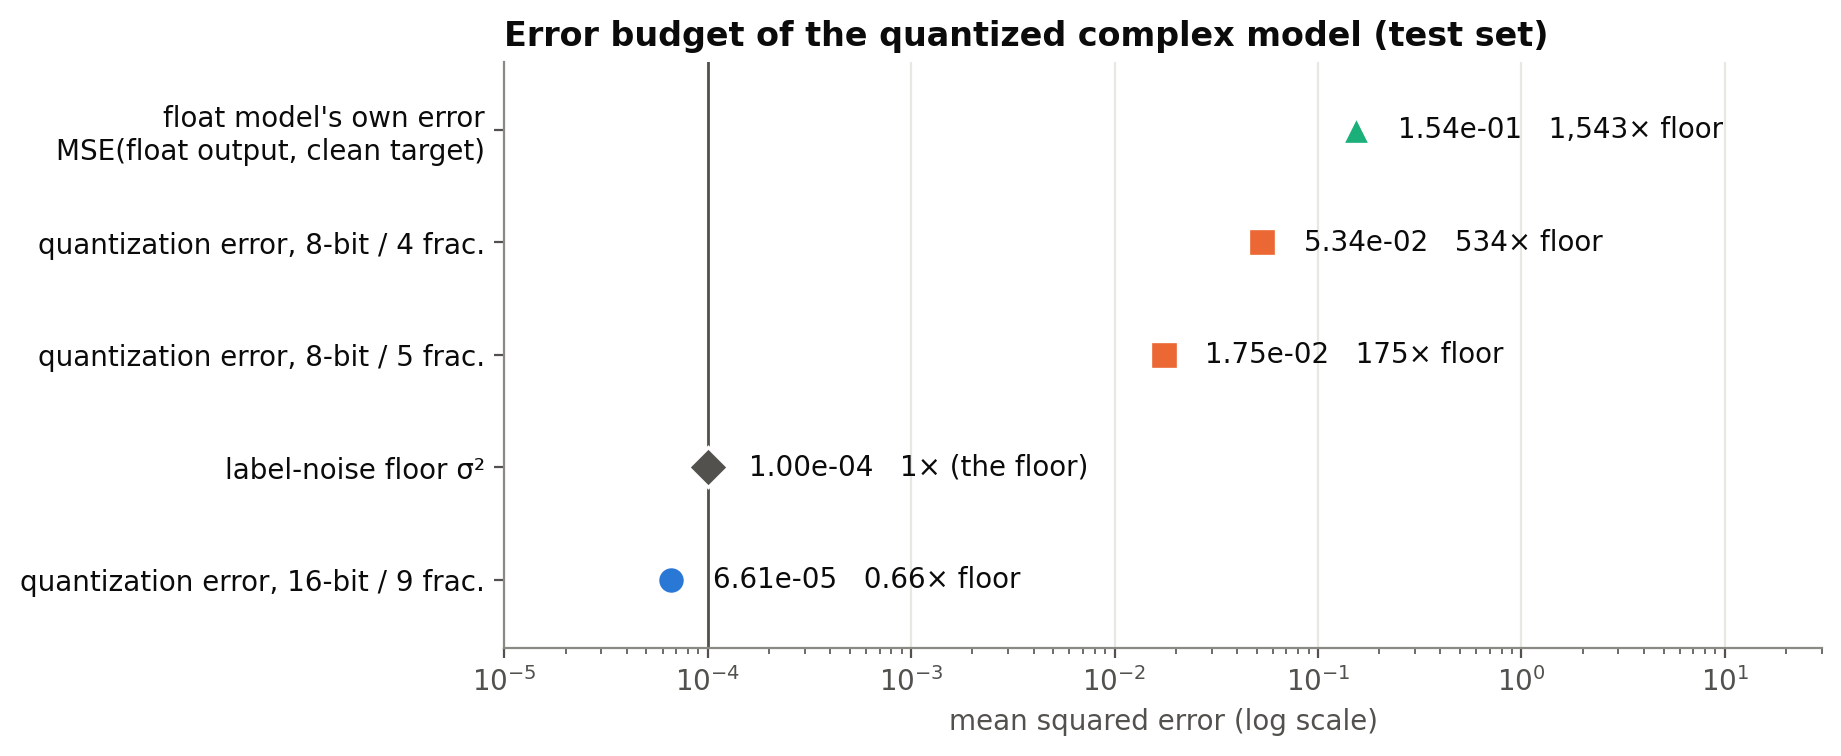
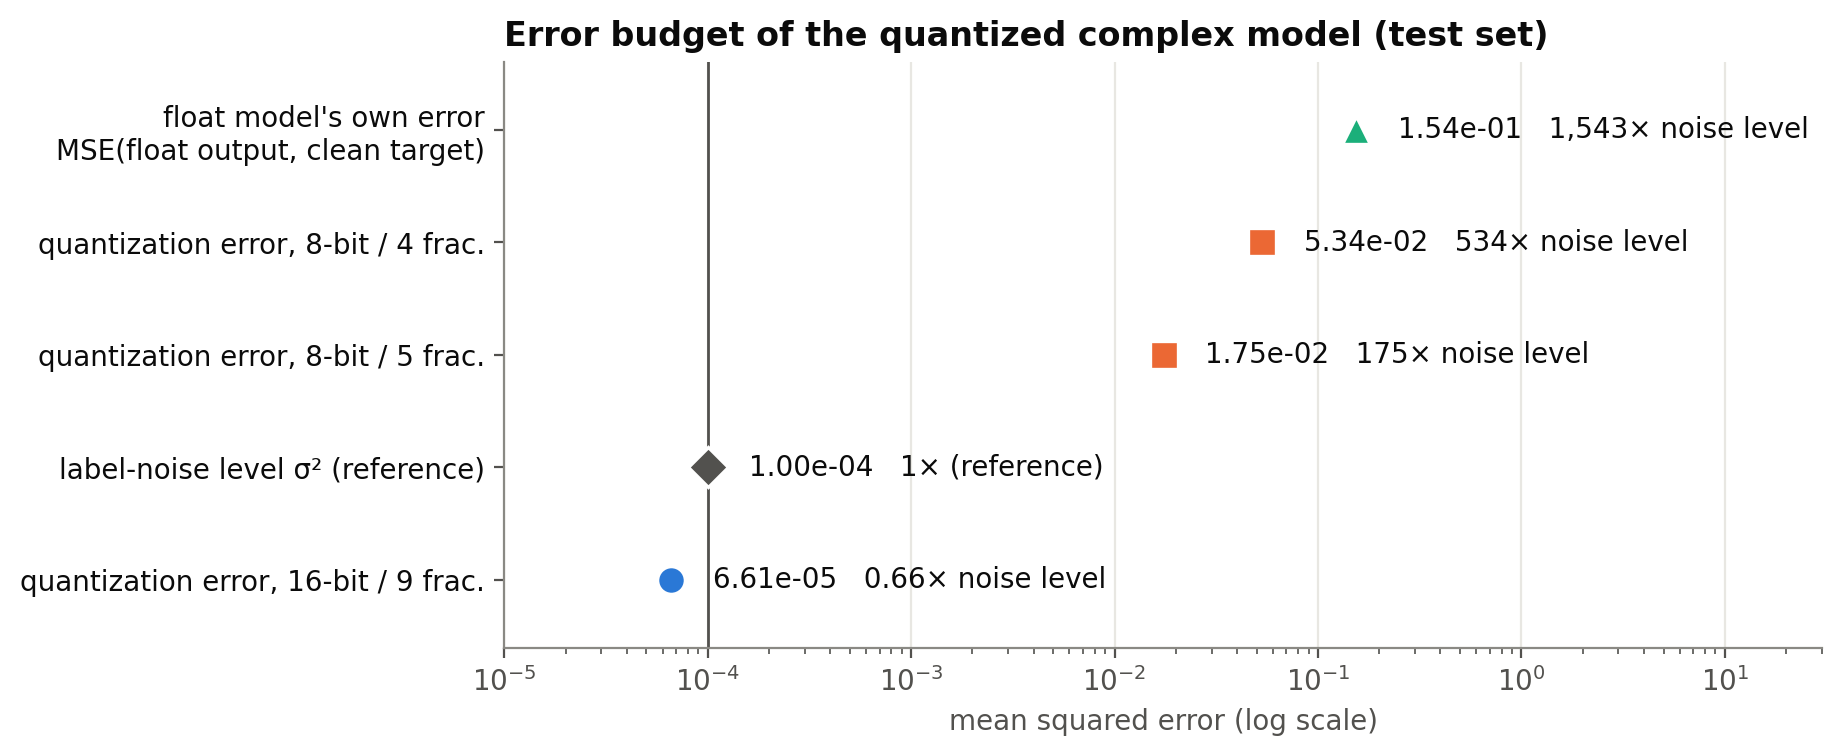
Relabel the noise floor as a reference level in the noise-budget figures
The quantization-error curves compare quantized with float model outputs,
which contain no label noise, so they can and do fall below sigma^2.
Calling the sigma^2 line a "floor" read as a limit those curves broke.
It is now "label-noise level (reference)" in all four figures, and the
crossover figure explains what its y-axis measures.

diff --git a/experiments/quantization_noise_budget/run_noise_budget.py b/experiments/quantization_noise_budget/run_noise_budget.py
@@ -328,23 +328,23 @@ def plot_crossover(results):
     ax.text(14.9, 2.2, "16-bit clips\nat f \u2265 14", color=INK_SECONDARY, ha="right", va="bottom")
 
     ax.axhline(floor, color=COLOR_REFERENCE, lw=1, zorder=1)
-    ax.text(-0.3, floor * 1.35, f"label-noise floor  \u03c3\u00b2 = {floor:.0e}", color=INK_SECONDARY, va="bottom")
+    ax.text(-0.3, floor * 1.35, f"label-noise level  \u03c3\u00b2 = {floor:.0e}  (reference)", color=INK_SECONDARY, va="bottom")
     ax.axhline(model_error, color=COLOR_MODEL_ERROR, lw=1, zorder=1)
     ax.text(10.4, model_error / 1.35, f"float model's own error = {model_error:.3f}",
             color=INK_SECONDARY, va="top", ha="center")
 
     ax.plot([crossover], [floor], marker="o", markersize=9, markerfacecolor="white",
             markeredgecolor=INK, markeredgewidth=1.5, zorder=5)
-    ax.annotate(f"crosses the floor at \u2248{crossover:.1f} fractional bits\n"
+    ax.annotate(f"drops below the noise level at \u2248{crossover:.1f} fractional bits\n"
                 f"(\u2248 9 bits: quantization becomes free)",
-                xy=(crossover, floor), xytext=(4.6, 4e-7), color=INK, ha="left",
+                xy=(crossover, floor), xytext=(3.2, 4e-7), color=INK, ha="left",
                 arrowprops=dict(arrowstyle="-", color=INK_SECONDARY, lw=0.8))
 
     q84, q85 = _find(sweep, 8, 4), _find(sweep, 8, 5)
-    ax.annotate(f"8/4, used in every earlier PTQ run:\n{q84['quant_error_over_noise_floor']:.0f}\u00d7 the floor",
+    ax.annotate(f"8/4, used in every earlier PTQ run:\n{q84['quant_error_over_noise_floor']:.0f}\u00d7 the noise level",
                 xy=(4, q84["quant_error"]), xytext=(0.0, 6e-4), color=INK, ha="left",
                 arrowprops=dict(arrowstyle="-", color=INK_SECONDARY, lw=0.8))
-    ax.annotate(f"8/5, best 8-bit setting:\n{q85['quant_error_over_noise_floor']:.0f}\u00d7 the floor",
+    ax.annotate(f"8/5, best 8-bit setting:\n{q85['quant_error_over_noise_floor']:.0f}\u00d7 the noise level",
                 xy=(5, q85["quant_error"]), xytext=(6.4, 9e-3), color=INK, ha="left",
                 arrowprops=dict(arrowstyle="-", color=INK_SECONDARY, lw=0.8))
 
@@ -355,8 +355,12 @@ def plot_crossover(results):
     ax.grid(False, which="minor")
     ax.set_xlabel("fractional bits  (rounding step = 2\u207b\u1da0)")
     ax.set_ylabel("quantization error  MSE(quantized output, float output)")
-    ax.set_title("Quantization error vs. precision, against the dataset's noise floor")
+    ax.set_title("Quantization error vs. precision, against the dataset's noise level")
     ax.legend(loc="lower left")
+    fig.text(0.5, -0.03, "y-axis: quantized model output vs. float model output (not vs. the labels), so it contains no label "
+                         "noise and can fall below \u03c3\u00b2.\nThe \u03c3\u00b2 line is a reference: below it, quantization "
+                         "changes predictions by less than the noise already in the data.",
+             ha="center", va="top", color=INK_SECONDARY, fontsize=9)
     fig.savefig(os.path.join(RESULTS_DIR, "noise_budget_crossover.png"))
     plt.close(fig)
 
@@ -370,7 +374,7 @@ def plot_breakdown(results):
         ("float model's own error\nMSE(float output, clean target)", budget["model_error"], COLOR_MODEL_ERROR, MARKER_MODEL_ERROR),
         ("quantization error, 8-bit / 4 frac.", _find(sweep, 8, 4)["quant_error"], COLOR_8BIT, MARKER_8BIT),
         ("quantization error, 8-bit / 5 frac.", _find(sweep, 8, 5)["quant_error"], COLOR_8BIT, MARKER_8BIT),
-        ("label-noise floor \u03c3\u00b2", floor, COLOR_REFERENCE, "D"),
+        ("label-noise level \u03c3\u00b2 (reference)", floor, COLOR_REFERENCE, "D"),
         ("quantization error, 16-bit / 9 frac.", _find(sweep, 16, 9)["quant_error"], COLOR_16BIT, MARKER_16BIT),
     ]
 
@@ -379,7 +383,7 @@ def plot_breakdown(results):
     for y, (label, value, color, marker) in enumerate(reversed(rows)):
         ax.plot([value], [y], marker=marker, color=color, markersize=10, linestyle="none", zorder=3)
         ratio = value / floor
-        ratio_text = "1\u00d7 (the floor)" if ratio == 1 else (f"{ratio:,.0f}\u00d7 floor" if ratio >= 10 else f"{ratio:.2f}\u00d7 floor")
+        ratio_text = "1\u00d7 (reference)" if ratio == 1 else (f"{ratio:,.0f}\u00d7 noise level" if ratio >= 10 else f"{ratio:.2f}\u00d7 noise level")
         ax.text(value * 1.6, y, f"{value:.2e}   {ratio_text}", va="center", color=INK)
 
     ax.set_yticks(range(len(rows)))
@@ -417,7 +421,7 @@ def plot_per_layer(results):
         ax_iso.plot([joint_x], [entry["joint_quant_error"]], color=color, marker=marker,
                     markersize=10, linestyle="none")
         ax_iso.text(joint_x + 0.25, entry["joint_quant_error"],
-                    f"{entry['joint_quant_error'] / floor:.3g}\u00d7 floor", color=INK, va="center")
+                    f"{entry['joint_quant_error'] / floor:.3g}\u00d7 noise level", color=INK, va="center")
 
     n_layers = len(results["per_layer"][0]["accumulated"])
     ax_acc.set_xticks(range(1, n_layers + 1))
@@ -429,7 +433,7 @@ def plot_per_layer(results):
     stages = [r["stage"] for r in results["per_layer"][0]["isolated"]]
     joint_x = len(stages) + 0.6
     ax_iso.axhline(floor, color=COLOR_REFERENCE, lw=1, zorder=1)
-    ax_iso.text(-0.2, floor * 1.3, "label-noise floor", color=INK_SECONDARY, ha="left", va="bottom")
+    ax_iso.text(-0.2, floor * 1.3, "label-noise level (reference)", color=INK_SECONDARY, ha="left", va="bottom")
     ax_iso.axvline(len(stages) - 0.2, color=GRID_STRONG, lw=1, zorder=0)
     ax_iso.set_xticks(list(range(len(stages))) + [joint_x])
     ax_iso.set_xticklabels(stages[:-1] + [f"{stages[-1]}\n(output)", "all stages\ntogether"])

diff --git a/experiments/quantization_noise_budget/run_noise_level_sweep.py b/experiments/quantization_noise_budget/run_noise_level_sweep.py
@@ -196,7 +196,7 @@ def plot_results(results):
     s0, s1 = 0.03, 0.06
     p0, p1 = ax.transData.transform([(s0, s0 ** 2), (s1, s1 ** 2)])
     angle = np.degrees(np.arctan2(p1[1] - p0[1], p1[0] - p0[0]))
-    ax.text(s0, s0 ** 2 / 1.9, "label-noise floor \u03c3\u00b2", color=INK_SECONDARY,
+    ax.text(s0, s0 ** 2 / 1.9, "label-noise level \u03c3\u00b2 (reference)", color=INK_SECONDARY,
             rotation=angle, rotation_mode="anchor", ha="left", va="top")
     ax.text(baseline_sigma * 1.08, 5e-6, f"this dataset\n(\u03c3 = {baseline_sigma:g})",
             color=INK_SECONDARY, va="bottom")
